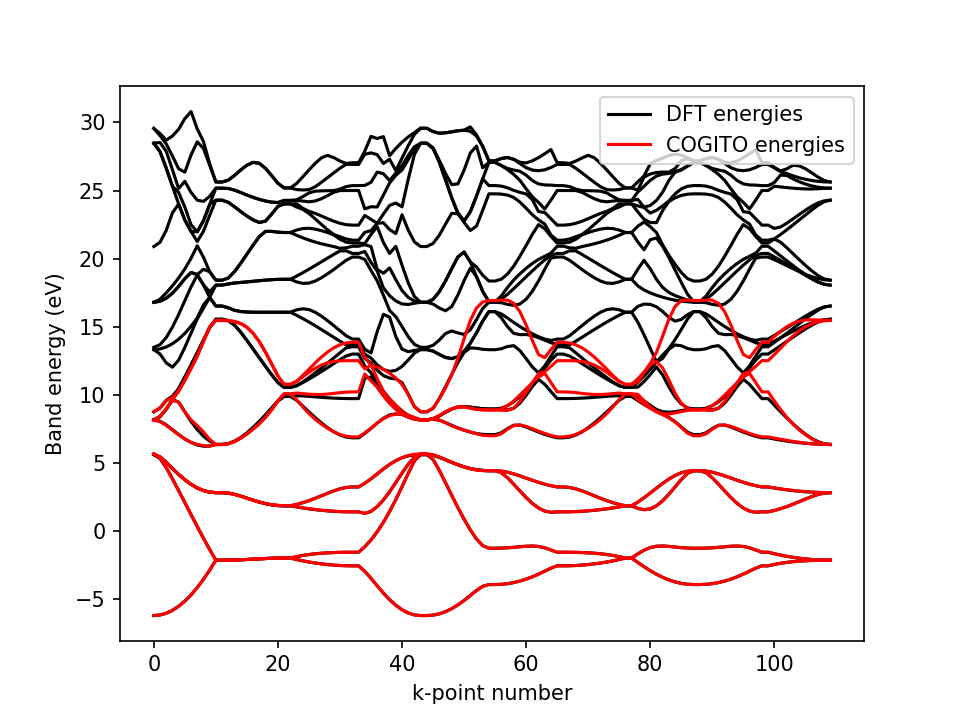
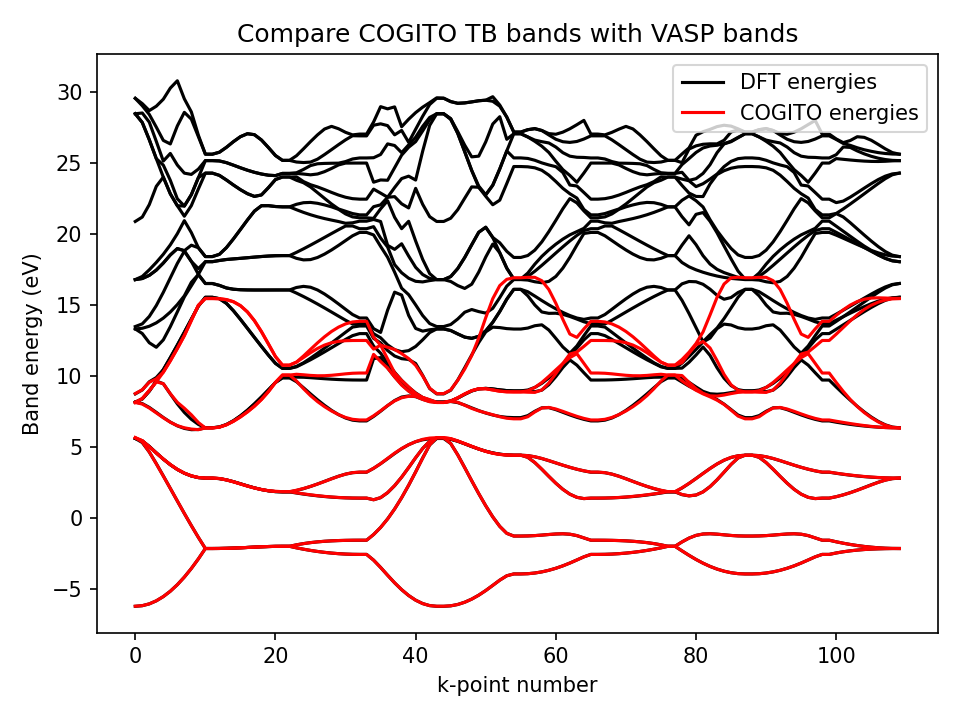
include all TB figs

diff --git a/index.md b/index.md
@@ -49,6 +49,14 @@ COGITO generates the atomic basis and save the tight binding model in three file
 ### Run COGITO tight binding
 
 This is where things start to get fun!
+Here are some capabilities to plot and verify the COGITO run.
+
+
+<div style="display: flex; justify-content: space-around;">
+    <img src="./overlaps_decay.png" alt="Image 1" width="30%">
+    <img src="./tbparams_decay.png" alt="Image 2" width="30%">
+    <img src="./compareDFT.png" alt="Image 3" width="30%">
+</div>
 
 ## Plot Wannier Functions
 
@@ -64,8 +72,9 @@ The COGITO workflow involves a series of steps that start from the VASP calculat
 
 
 <div style="display: flex; justify-content: space-around;">
-    <img src="./compareDFT.png" alt="Image 1" width="45%">
-    <img src="./compareDFT.png" alt="Image 2" width="45%">
+    <img src="./overlaps_decay.png" alt="Image 1" width="30%">
+    <img src="./tbparams_decay.png" alt="Image 2" width="30%">
+    <img src="./compareDFT.png" alt="Image 3" width="30%">
 </div>
 
 
